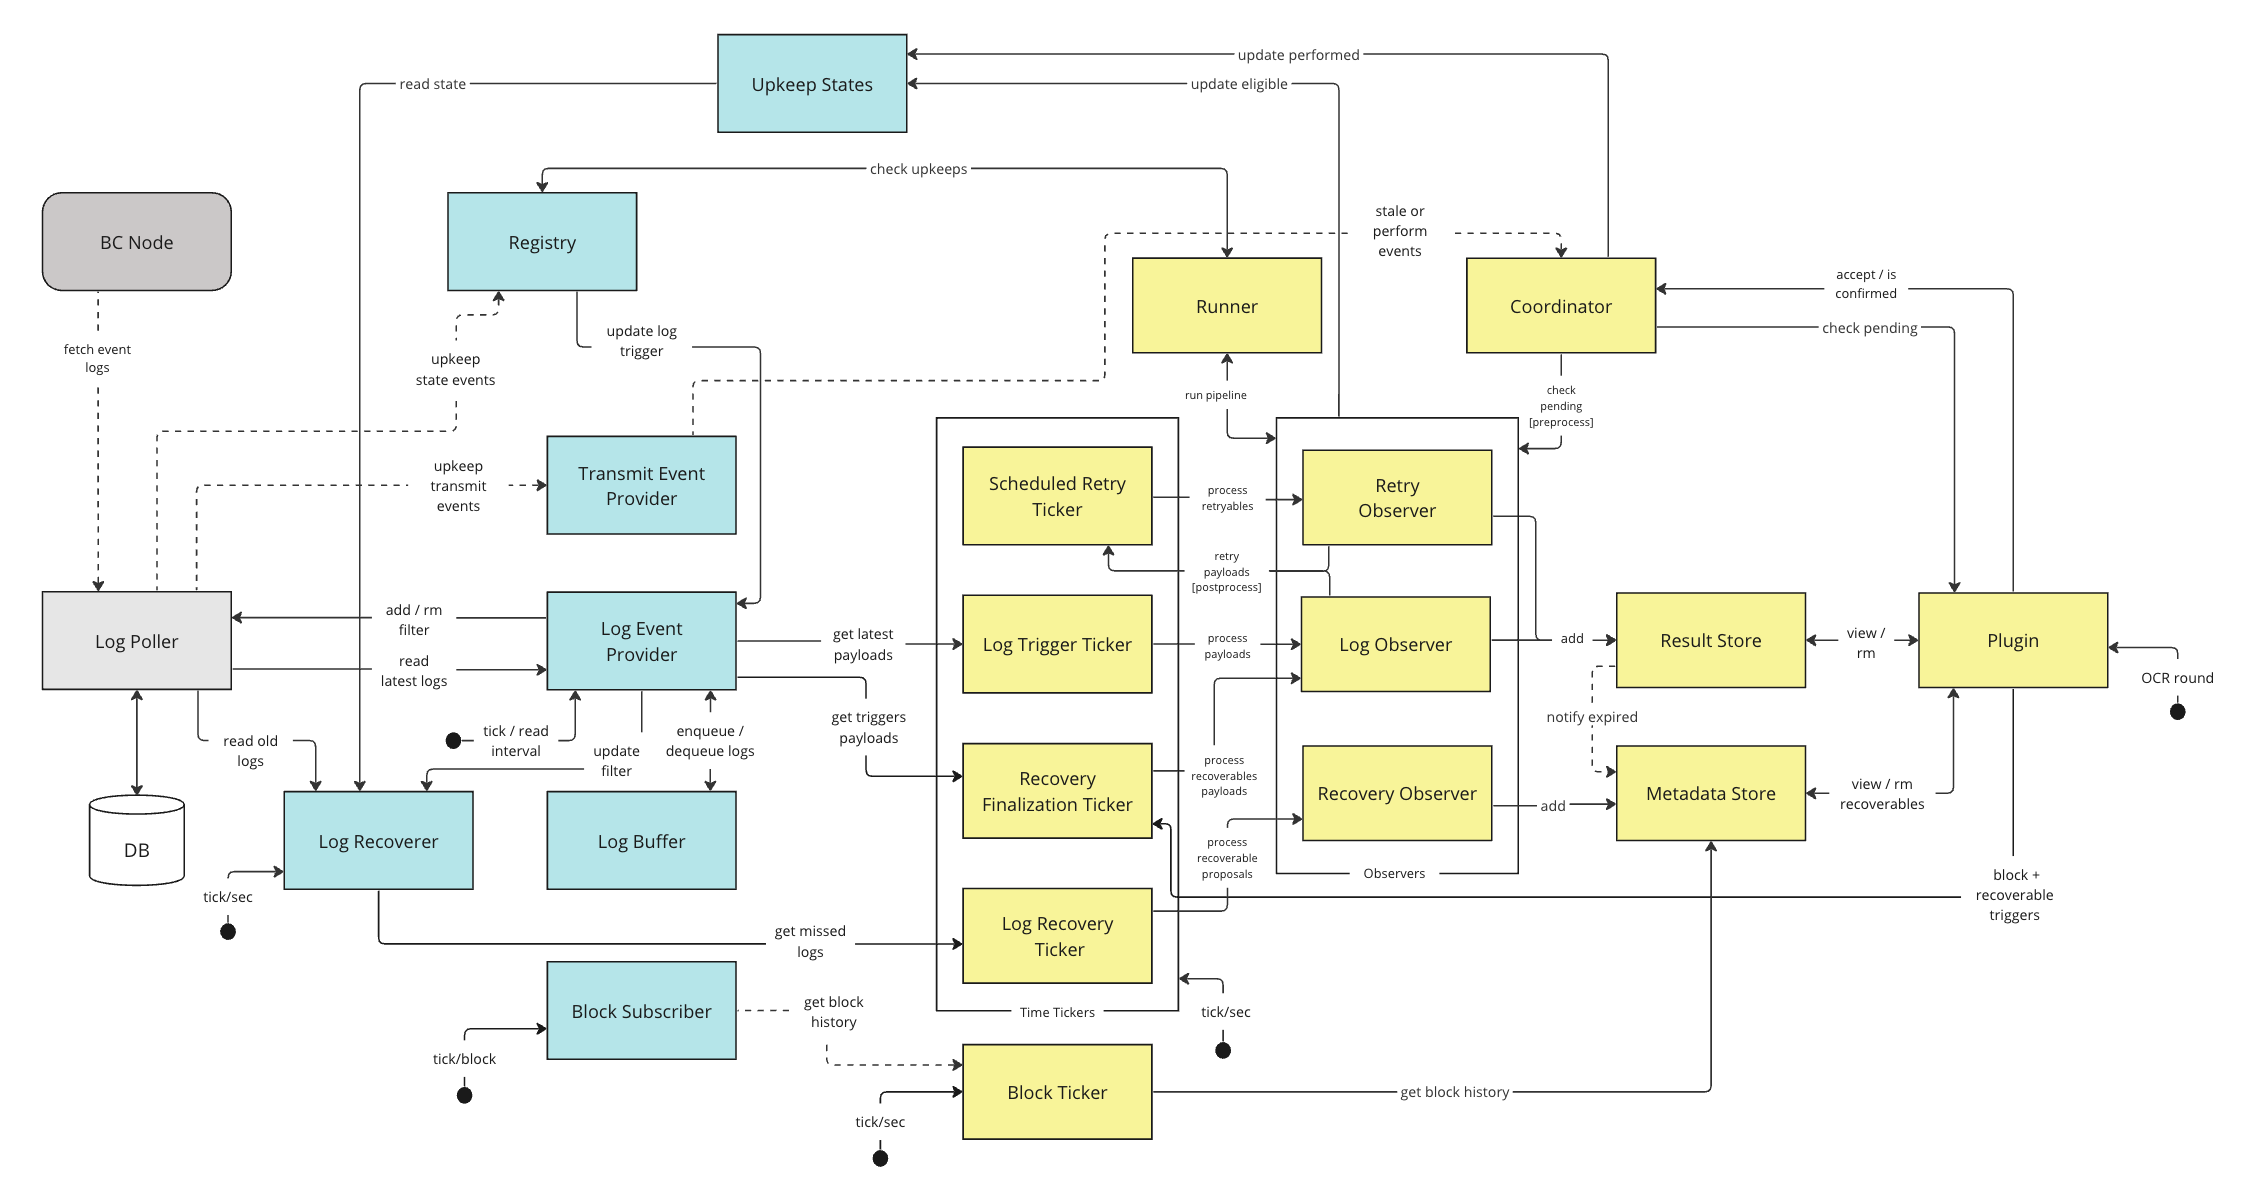
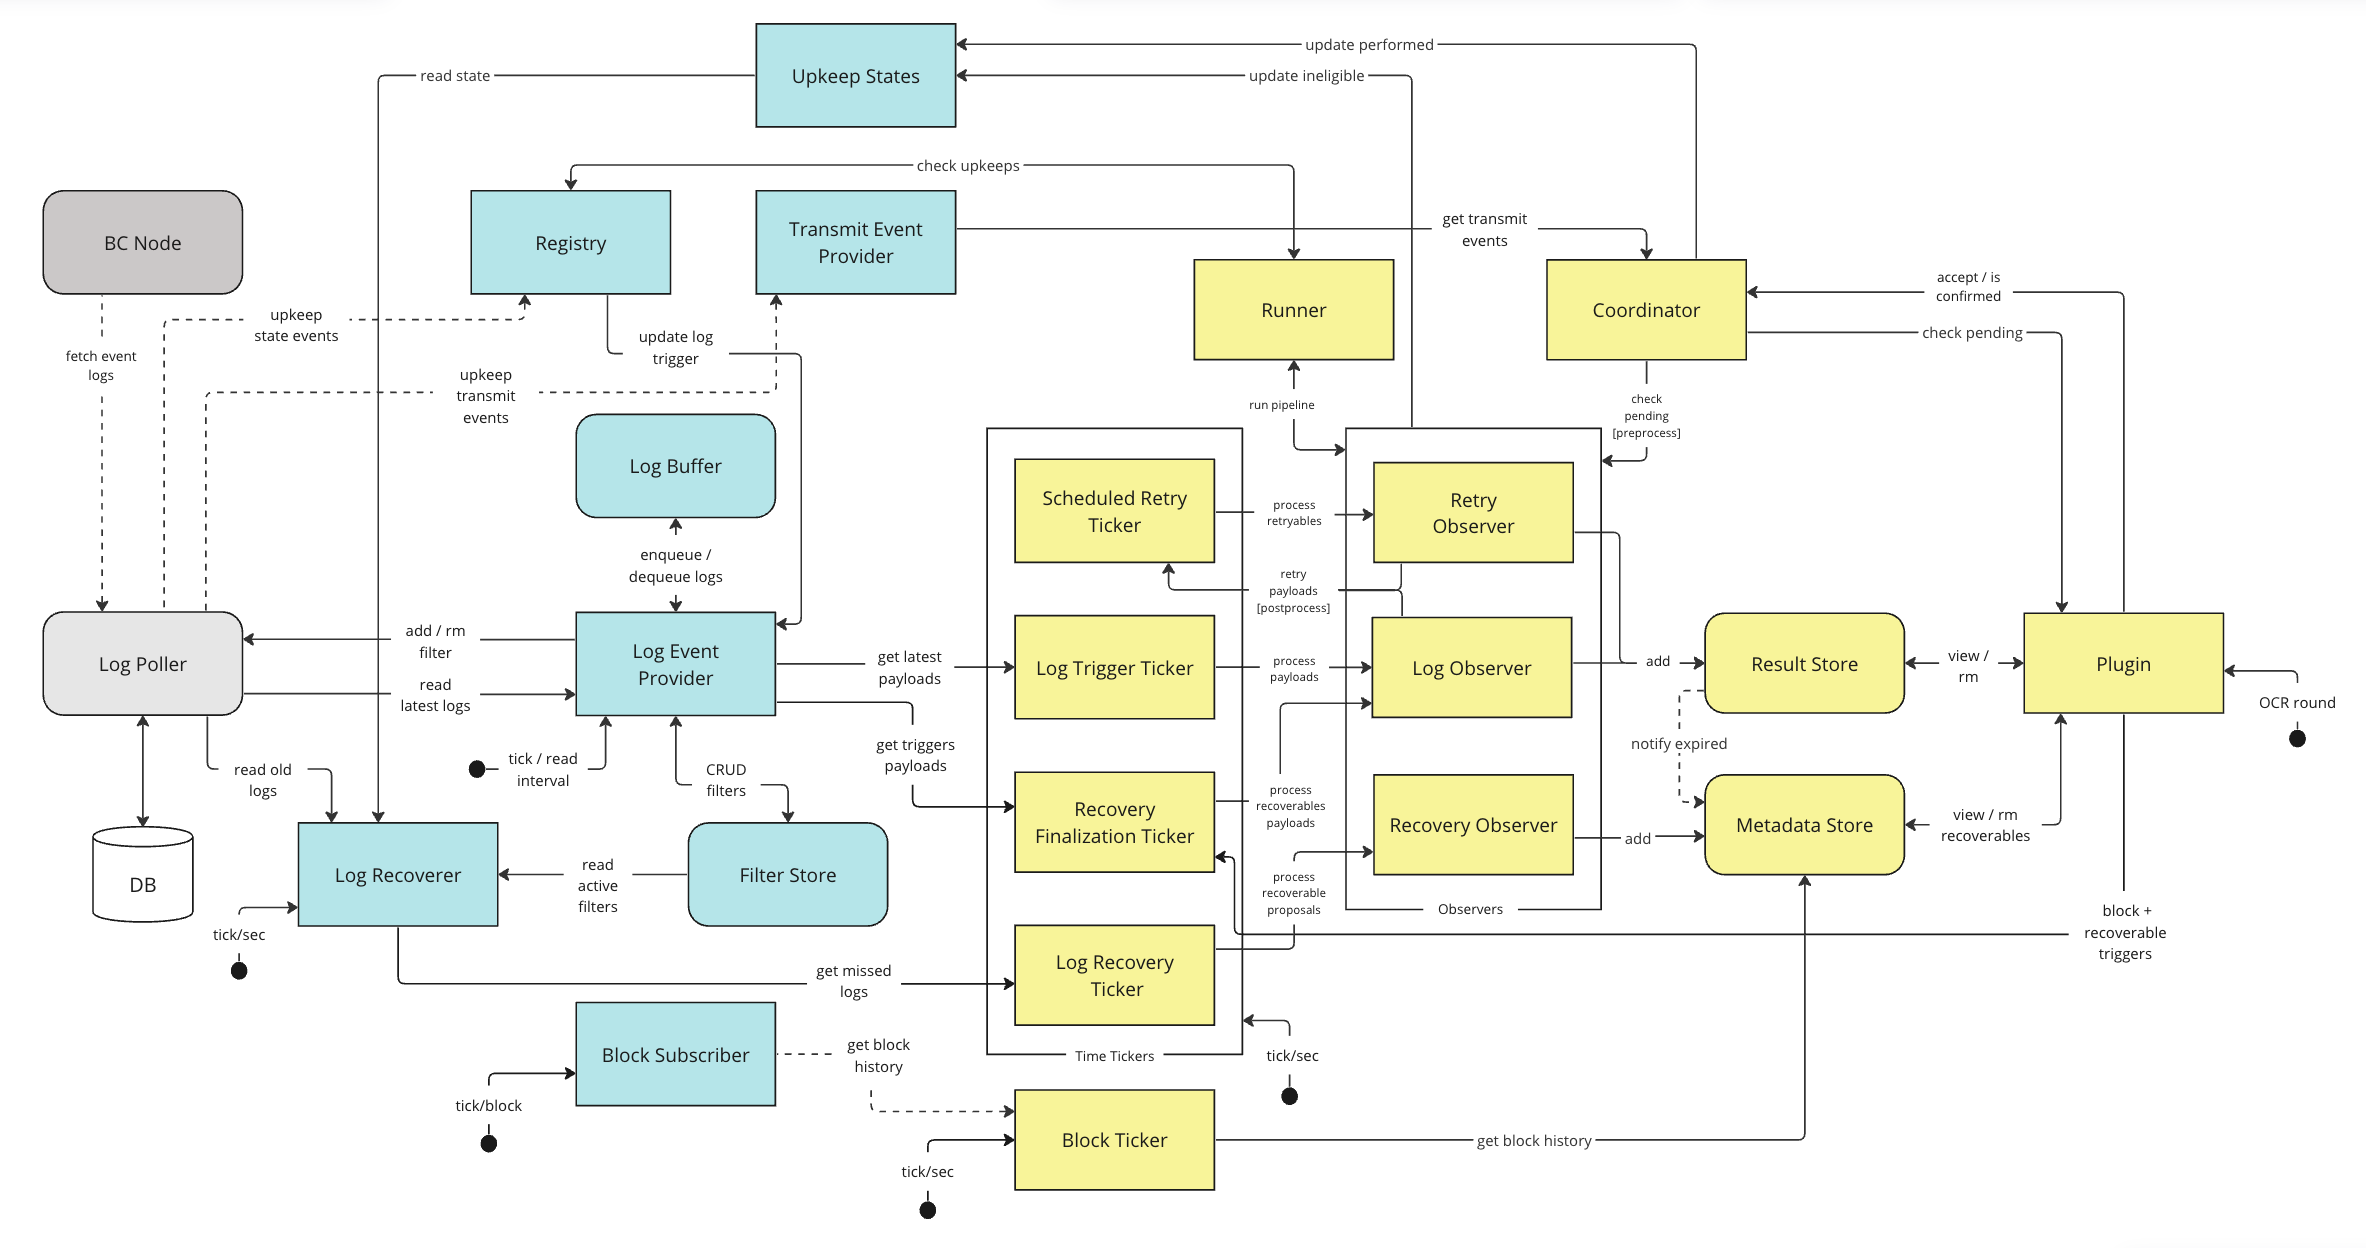
added filter store and updated log triggers diagrams

diff --git a/docs/PROTOCOL_v21.md b/docs/PROTOCOL_v21.md
@@ -356,7 +356,9 @@ Observer does the following:
 
 This component’s purpose is to surface latest logs for registered upkeeps. It does not maintain any state across restarts (no DB). The main functionality it exposes
 
-- Listening for log filter config changes from Registry and sync log poller with the filters
+- Listening for log filter config changes from Registry: 
+    - sync log poller with the filters
+    - sync the local filter store with changes in filters
 - Provides a simple interface `getLatestLogs` to provide new **unseen** logs across all upkeeps within a limit
     - Repeatedly queries latest logs from the chain (via log poller DB) for the last `lookbackBlocks` (200) blocks. Stores them in the log buffer (see below)
     - Handles load balancing and rate limiting across upkeeps
@@ -380,6 +382,9 @@ Logs are marked as seen when they are returned by the buffer, to avoid working w
 
 It is used by the log provider to provide unknown logs to the node, and by by the log recoverer to identify known logs during recovery flow.
 
+#### Log Filter Store
+
+A local store of log filters for each upkeep. It is used by the log provider and log recoverer as a source of truth for the current active log filters.
 
 ### Log Recoverer
 
